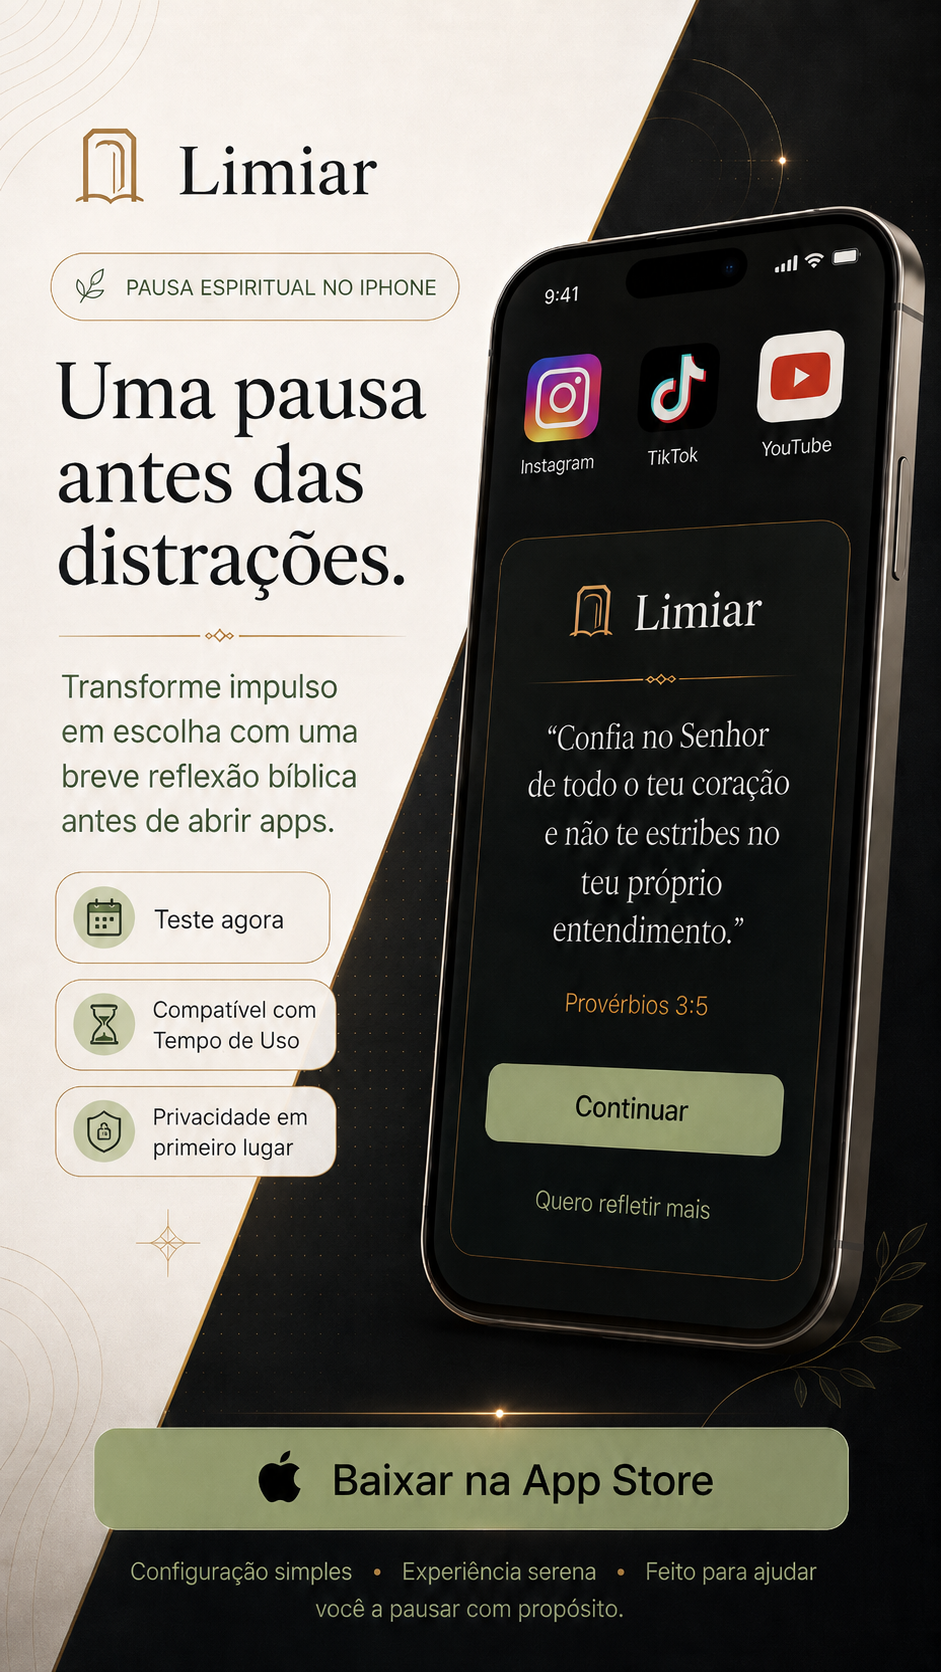
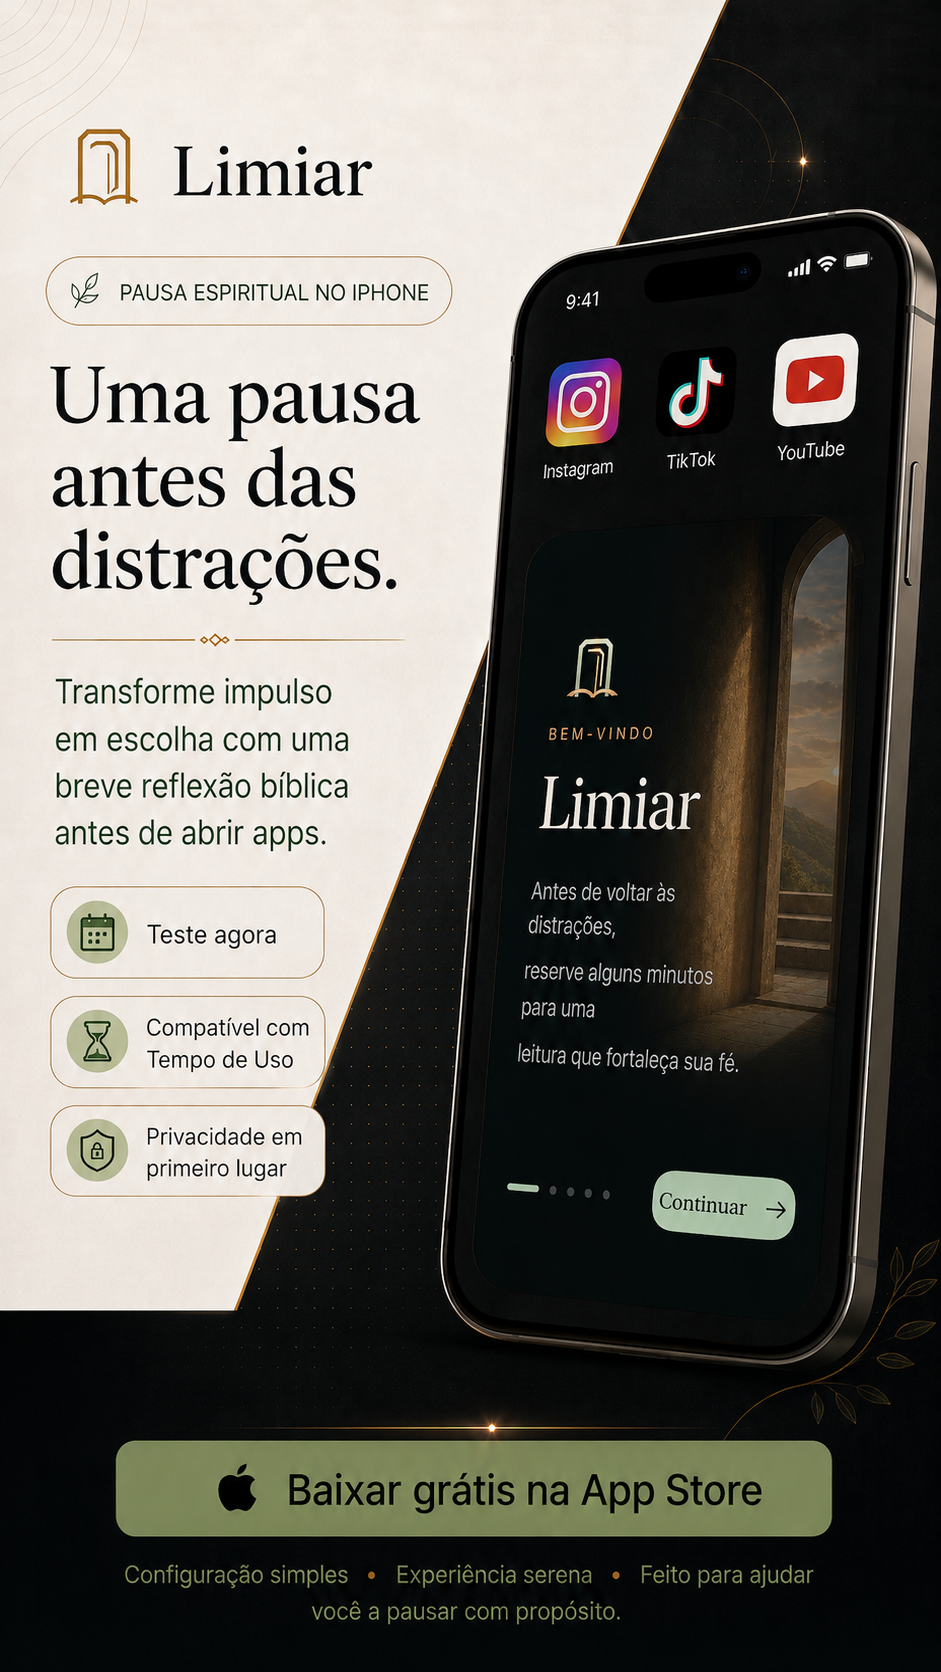
Atualiza dobra inicial e simplifica CTA final

Changed region(s): [[0.0, 0.0, 1.0, 1.0], [0.1849, 0.0622, 0.4006, 0.1244], [0.0616, 0.0622, 0.1541, 0.1244]]

diff --git a/index.html b/index.html
@@ -45,7 +45,10 @@
 
     <main>
       <section class="mobile-hero" aria-label="Limiar no iPhone">
-        <img class="mobile-first-fold-art" src="assets/mobile-first-fold-app-store.png?v=20260720" alt="Limiar: uma pausa antes das distrações. Baixar grátis na App Store.">
+        <picture>
+          <source srcset="assets/mobile-first-fold-app-store.avif?v=20260721-174658" type="image/avif">
+          <img class="mobile-first-fold-art" src="assets/mobile-first-fold-app-store.png?v=20260721-174658" alt="Limiar: uma pausa antes das distrações. Baixar grátis na App Store.">
+        </picture>
         <a class="mobile-first-fold-cta" href="https://apps.apple.com/br/app/limiar/id6783115468" target="_blank" rel="noopener noreferrer" aria-label="Baixar o Limiar na App Store"></a>
       </section>
 
@@ -206,9 +209,7 @@
           <div class="hero-actions">
             <a class="button app-store-download" href="https://apps.apple.com/br/app/limiar/id6783115468" target="_blank" rel="noopener noreferrer"><span class="apple-mark" aria-hidden="true"></span><span>Baixar grátis na App Store</span></a>
             <a class="button secondary" href="https://www.instagram.com/app.limiar?utm_source=qr" target="_blank" rel="noopener noreferrer">Seguir no Instagram</a>
-            <a class="button secondary" href="privacy.html">Ver privacidade</a>
           </div>
-          <p class="hero-note">Se a página da App Store ainda não estiver pública, ela ficará disponível assim que a versão for liberada pela Apple.</p>
         </div>
       </section>
     </main>
